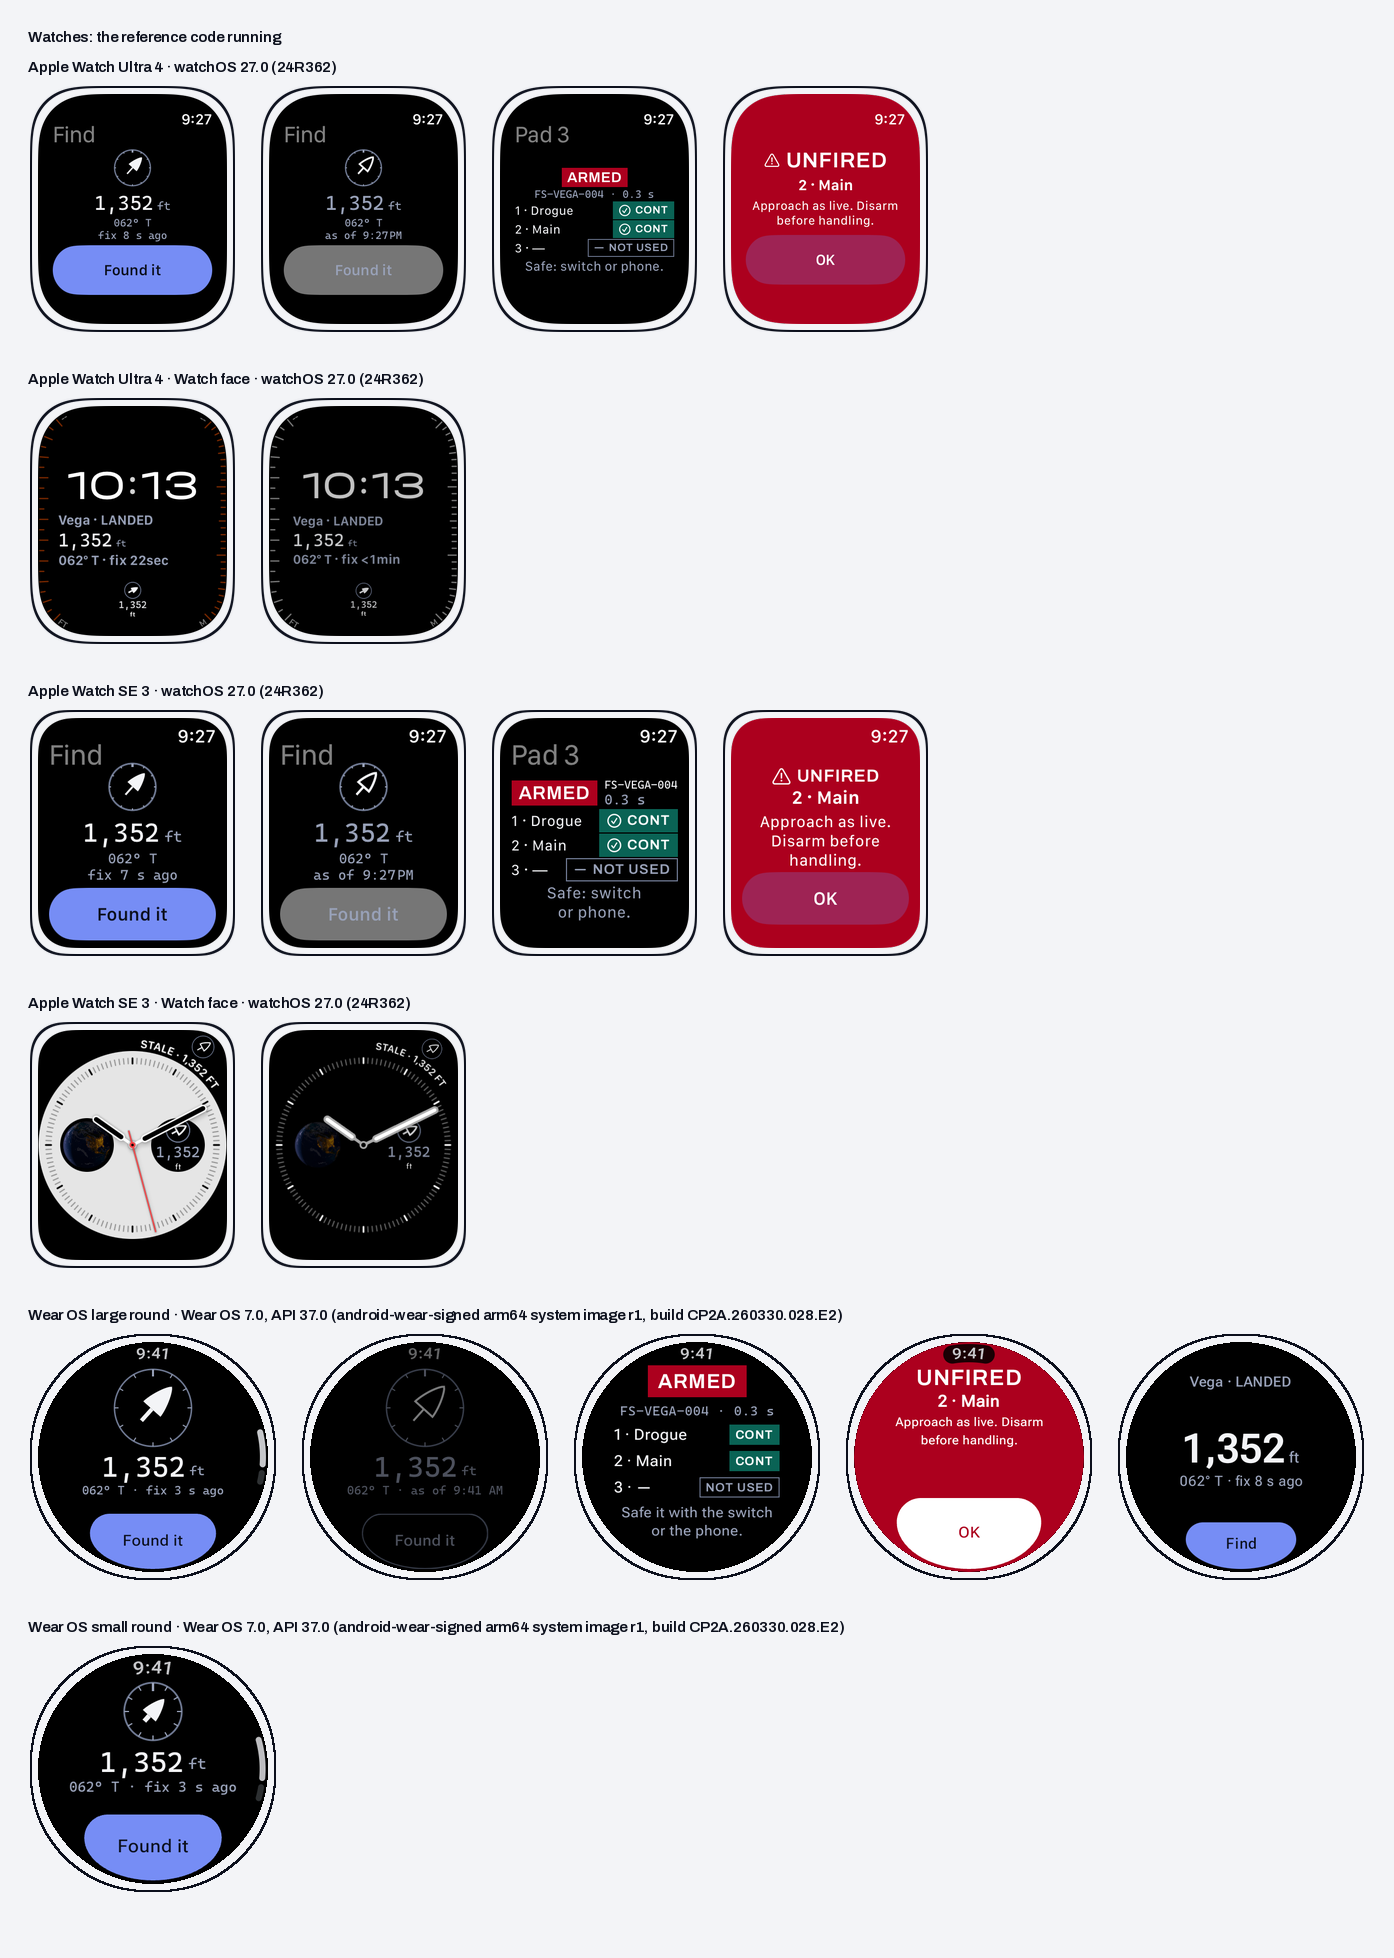
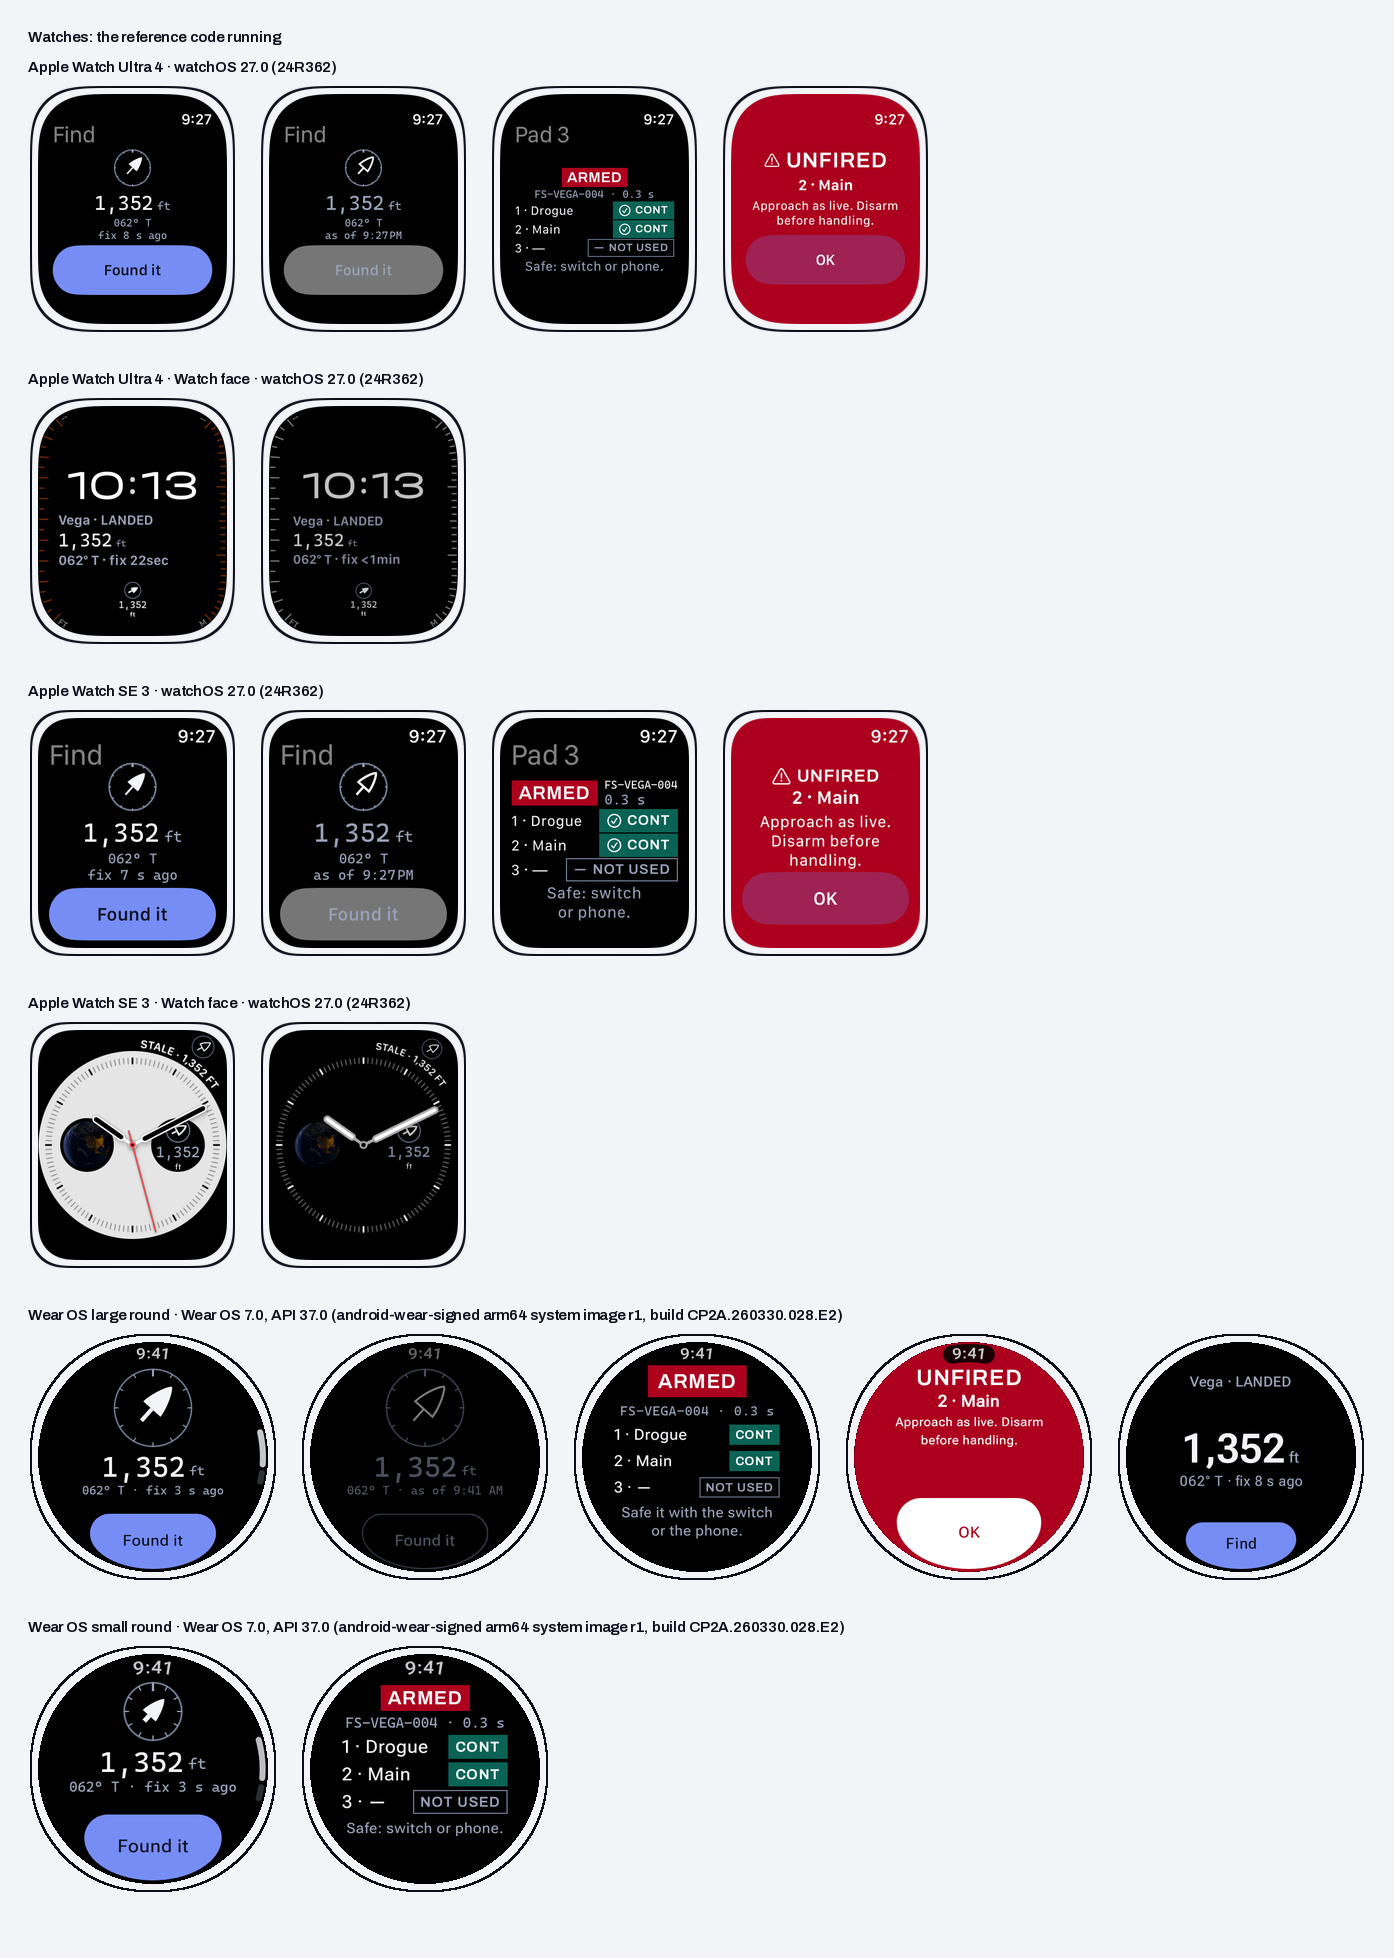
Fit Pad on Wear OS's small round watches without scrolling
On the 192 dp class the designation and link wrapped to two lines and
the note ran past the bottom of the circle, so Pad scrolled at the
default text size. The small class (under 225 dp, as Find already uses)
now takes the 40 mm Apple Watch's tighter layout: FsWearStateBox(compact
= true), the designation and link on one line at 12 sp, rows 3 dp apart
and "Safe: switch or phone." It fits the circle and no longer scrolls;
at font scale 1.24 it still does, with nothing cut. The larger class is
unchanged. The capture is published as wear-small-pad.png.

Changed region(s): [[0.2159, 0.8412, 0.401, 0.9658]]

diff --git a/source/product/samples/android/wear/src/main/kotlin/co/fusionspace/sample/wear/MainActivity.kt b/source/product/samples/android/wear/src/main/kotlin/co/fusionspace/sample/wear/MainActivity.kt
@@ -111,17 +111,21 @@ internal fun WearPad() {
             val clear = fsClearOfTime(padding)  // the top grows with the time at large text sizes
             // 6 dp more at the top: the state box is a filled block, and the time's scrim cut its top on the small round watch
             val inset = PaddingValues(start = side, end = side, top = clear.calculateTopPadding() + 6.dp, bottom = clear.calculateBottomPadding())
-            TransformingLazyColumn(state = state, contentPadding = inset, verticalArrangement = Arrangement.spacedBy(6.dp)) {
-                item { FsWearStateBox(armed = true) }
+            // Wear OS's small class (192-224 dp), as the 40 mm Apple Watch: a tighter state box, the designation and link on
+            // one line at 12 sp, closer rows and the short note, so Pad fits the circle without scrolling at the default size.
+            val small = LocalConfiguration.current.screenWidthDp < 225
+            TransformingLazyColumn(state = state, contentPadding = inset, verticalArrangement = Arrangement.spacedBy(if (small) 3.dp else 6.dp)) {
+                item { FsWearStateBox(armed = true, compact = small) }
                 item {
-                    Text("FS-VEGA-004 ·\u00A00.3\u00A0s", style = mono(13), color = c.inkMuted,
+                    Text("FS-VEGA-004 ·\u00A00.3\u00A0s", style = if (small) mono(12, tracking = 0f) else mono(13), color = c.inkMuted,
                         modifier = Modifier.clearAndSetSemantics { contentDescription = "FS-VEGA-004, link 0.3 seconds" })
                 }
                 item { FsWearChannel(1, "Drogue", "Cont", ok = true, spoken = "Continuity") }
                 item { FsWearChannel(2, "Main", "Cont", ok = true, spoken = "Continuity") }
                 item { FsWearChannel(3, "—", "Not used", ok = false) }
                 item {
-                    Text("Safe it with the switch or the phone.", color = c.inkMuted, fontSize = 14.sp, textAlign = TextAlign.Center,
+                    Text(if (small) "Safe: switch or phone." else "Safe it with the switch or the phone.", color = c.inkMuted,
+                        fontSize = if (small) 12.sp else 14.sp, textAlign = TextAlign.Center,
                         modifier = Modifier.fillMaxWidth())
                 }
             }
@@ -129,5 +133,5 @@ internal fun WearPad() {
     }
 }
 
-private fun mono(size: Int, weight: FontWeight = FontWeight.Normal) =
-    TextStyle(fontFamily = CascadiaMono, fontSize = size.sp, fontWeight = weight, letterSpacing = 0.04.em)
+private fun mono(size: Int, weight: FontWeight = FontWeight.Normal, tracking: Float = 0.04f) =
+    TextStyle(fontFamily = CascadiaMono, fontSize = size.sp, fontWeight = weight, letterSpacing = tracking.em)

diff --git a/product/watch/compose/FsWear.kt b/product/watch/compose/FsWear.kt
@@ -289,17 +289,19 @@ fun FsWearFind(distanceFt: Int, bearingTrue: Float, headingTrue: Float?, fixedAt
  * the fill becomes an outline (ARMED stays a word in its box, in danger ink) and SAFE turns muted. TalkBack hears "Device
  * state, safe", not a bare "SAFE" that would sound like a button. As a list's first item, give it 6 dp more than
  * [fsClearOfTime] above it: a filled box shows the time's scrim cutting its top where text wouldn't (small round watches).
+ * [compact] for Wear OS's small class (192-224 dp): a smaller word and padding, as on the 40 mm Apple Watch.
  */
 @Composable
-fun FsWearStateBox(armed: Boolean, modifier: Modifier = Modifier) {
+fun FsWearStateBox(armed: Boolean, modifier: Modifier = Modifier, compact: Boolean = false) {
     val c = FsWearColors
     val ambient = LocalAmbientModeManager.current?.currentAmbientMode is AmbientMode.Ambient
     val ink = when { ambient && armed -> c.danger; ambient -> c.inkMuted; armed -> c.onDangerFill; else -> c.ink }
     val word = if (armed) "ARMED" else "SAFE"
     Text(
-        word, style = signal(20), color = ink,
+        word, style = signal(if (compact) 16 else 20), color = ink,
         modifier = modifier.clearAndSetSemantics { contentDescription = "Device state, ${word.lowercase()}" }.background(if (armed && !ambient) c.dangerFill else Color.Transparent)
-            .border(3.dp, if (armed && !ambient) c.dangerFill else ink).padding(horizontal = 10.dp, vertical = 5.dp),
+            .border(3.dp, if (armed && !ambient) c.dangerFill else ink)
+            .padding(horizontal = if (compact) 6.dp else 10.dp, vertical = if (compact) 2.dp else 5.dp),
     )
 }
 

diff --git a/source/product/watch/compose/FsWear.kt b/source/product/watch/compose/FsWear.kt
@@ -268,17 +268,19 @@ fun FsWearFind(distanceFt: Int, bearingTrue: Float, headingTrue: Float?, fixedAt
  * the fill becomes an outline (ARMED stays a word in its box, in danger ink) and SAFE turns muted. TalkBack hears "Device
  * state, safe", not a bare "SAFE" that would sound like a button. As a list's first item, give it 6 dp more than
  * [fsClearOfTime] above it: a filled box shows the time's scrim cutting its top where text wouldn't (small round watches).
+ * [compact] for Wear OS's small class (192-224 dp): a smaller word and padding, as on the 40 mm Apple Watch.
  */
 @Composable
-fun FsWearStateBox(armed: Boolean, modifier: Modifier = Modifier) {
+fun FsWearStateBox(armed: Boolean, modifier: Modifier = Modifier, compact: Boolean = false) {
     val c = FsWearColors
     val ambient = LocalAmbientModeManager.current?.currentAmbientMode is AmbientMode.Ambient
     val ink = when { ambient && armed -> c.danger; ambient -> c.inkMuted; armed -> c.onDangerFill; else -> c.ink }
     val word = if (armed) "ARMED" else "SAFE"
     Text(
-        word, style = signal(20), color = ink,
+        word, style = signal(if (compact) 16 else 20), color = ink,
         modifier = modifier.clearAndSetSemantics { contentDescription = "Device state, ${word.lowercase()}" }.background(if (armed && !ambient) c.dangerFill else Color.Transparent)
-            .border(3.dp, if (armed && !ambient) c.dangerFill else ink).padding(horizontal = 10.dp, vertical = 5.dp),
+            .border(3.dp, if (armed && !ambient) c.dangerFill else ink)
+            .padding(horizontal = if (compact) 6.dp else 10.dp, vertical = if (compact) 2.dp else 5.dp),
     )
 }
 

diff --git a/tools/build/kit_devices.py b/tools/build/kit_devices.py
@@ -28,7 +28,7 @@ ORDER = ["ios-pad", "ios-track", "ios-home-widgets-light", "ios-home-widgets-dar
          "phone-pad", "phone-track", "phone-live-update", "phone-live-update-android16",
          "watch-ultra-find", "watch-ultra-find-aod", "watch-ultra-pad", "watch-ultra-unfired", "watch-ultra-face", "watch-ultra-face-aod",
          "watch-se40-find", "watch-se40-find-aod", "watch-se40-pad", "watch-se40-unfired", "watch-se40-face", "watch-se40-face-aod",
-         "wear-find", "wear-find-ambient", "wear-pad", "wear-unfired", "wear-tile-find", "wear-small-find"]
+         "wear-find", "wear-find-ambient", "wear-pad", "wear-unfired", "wear-tile-find", "wear-small-find", "wear-small-pad"]
 def _rank(r):
     stem = r["file"][:-4]
     return ORDER.index(stem) if stem in ORDER else len(ORDER)

diff --git a/source/product/samples/android/README.md b/source/product/samples/android/README.md
@@ -161,7 +161,10 @@ the rows lower on the circle.
 - Wear OS (November 2026): a channel's state word sat at the top of its chip, not the middle (the text took the chip's
   minimum height); it's centred now, in a 20 dp chip with 6 dp padding, as on Apple Watch. On the small round watch the
   time's scrim cut the top of the filled ARMED box; the sample's Pad list starts 6 dp lower (text never showed it). Pad
-  scrolls there at the default size, as a Wear list does: three channels and the note are more than 192 dp holds.
+  scrolled there at the default size: three channels and the note were more than 192 dp holds. On the small class it now
+  takes the 40 mm Apple Watch's tighter layout (`FsWearStateBox(compact = true)`, the designation and link on one line at
+  12 sp, rows 3 dp apart, "Safe: switch or phone.") and fits the circle without scrolling (`wear-small-pad.png`); it
+  scrolls only at 124%.
 - Android 16: `Build.VERSION.SDK_INT_FULL` is in the API 36 SDK, so the 36.0 branch (the `android.requestPromotedOngoing`
   extra) doesn't need a guard; 36.1 takes `setRequestPromotedOngoing`. Checked on 36.1 and on 36.0 (above).
 

diff --git a/product/watch/devices/README.md b/product/watch/devices/README.md
@@ -26,6 +26,7 @@ from `source/product/devices/`, where `devices.json` records each capture's devi
 | `wear-find-ambient.png` | Wear OS large round, Wear OS 7.0, API 37.0 (android-wear-signed arm64 system image r1, build CP2A.260330.028.E2) | Find in ambient mode (KEYCODE_SLEEP) |
 | `wear-tile-find.png` | Wear OS large round, Wear OS 7.0, API 37.0 (android-wear-signed arm64 system image r1, build CP2A.260330.028.E2) | Find tile |
 | `wear-small-find.png` | Wear OS small round, Wear OS 7.0, API 37.0 (android-wear-signed arm64 system image r1, build CP2A.260330.028.E2) | Find at the small size class |
+| `wear-small-pad.png` | Wear OS small round, Wear OS 7.0, API 37.0 (android-wear-signed arm64 system image r1, build CP2A.260330.028.E2) | Pad at the small size class: a smaller state box, the designation on one line, closer rows and the short note, so it fits the circle without scrolling |
 
 The screens were also captured at the largest text size each platform offers (Accessibility 5 on iPhone, font scale 2.0
 on Android, Accessibility 3 and 1 on the 49 mm and 40 mm watches, 1.24 on Wear OS). There they scroll, so those captures,
